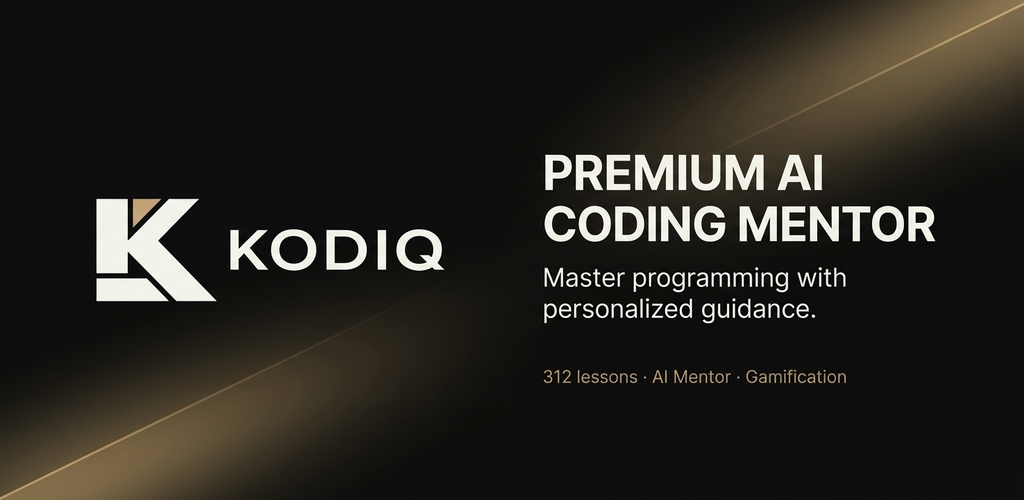
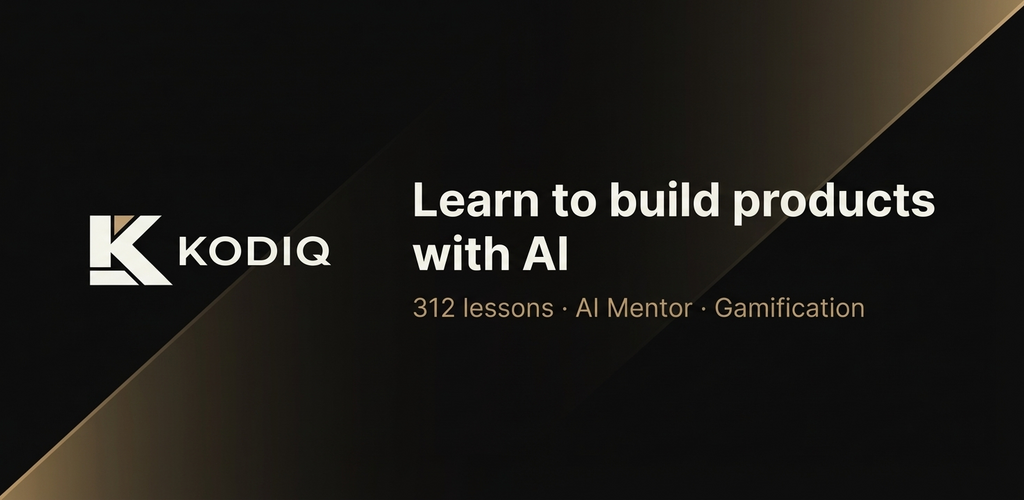
fix: feature graphic captions and RU text rendering
- Add {{caption}} placeholder to layout config so Gemini uses exact text
- Regenerate EN feature graphic with correct caption
- Create RU feature graphic programmatically (Pillow) to avoid Gemini
  cyrillic rendering errors ("создавает" instead of "создавать")

diff --git a/store-assets/screenshot-config.ts b/store-assets/screenshot-config.ts
@@ -181,8 +181,9 @@ export const FEATURE_GRAPHIC = {
     ru: 'Научись создавать продукты\nс помощью AI',
   },
   layout:
-    'Logo on the LEFT at ~25% width. Caption on the RIGHT, left-aligned. ' +
+    'Logo on the LEFT at ~25% width. The EXACT text "{{caption}}" on the RIGHT, left-aligned, large bold warm white. ' +
     'Background: dark (#0c0c0c) with a subtle warm gold diagonal gradient stripe from bottom-left to top-right (very faint). ' +
     "Below the caption — small text '312 lessons · AI Mentor · Gamification' in muted gold. " +
+    'CRITICAL: Render the caption text LETTER BY LETTER exactly as given — do NOT correct, rephrase, or change any word. Copy each character precisely. ' +
     'ONLY use gold (#c4a882) and warm white (#f5f5f0) colors. No blue, no cyan.',
 };
